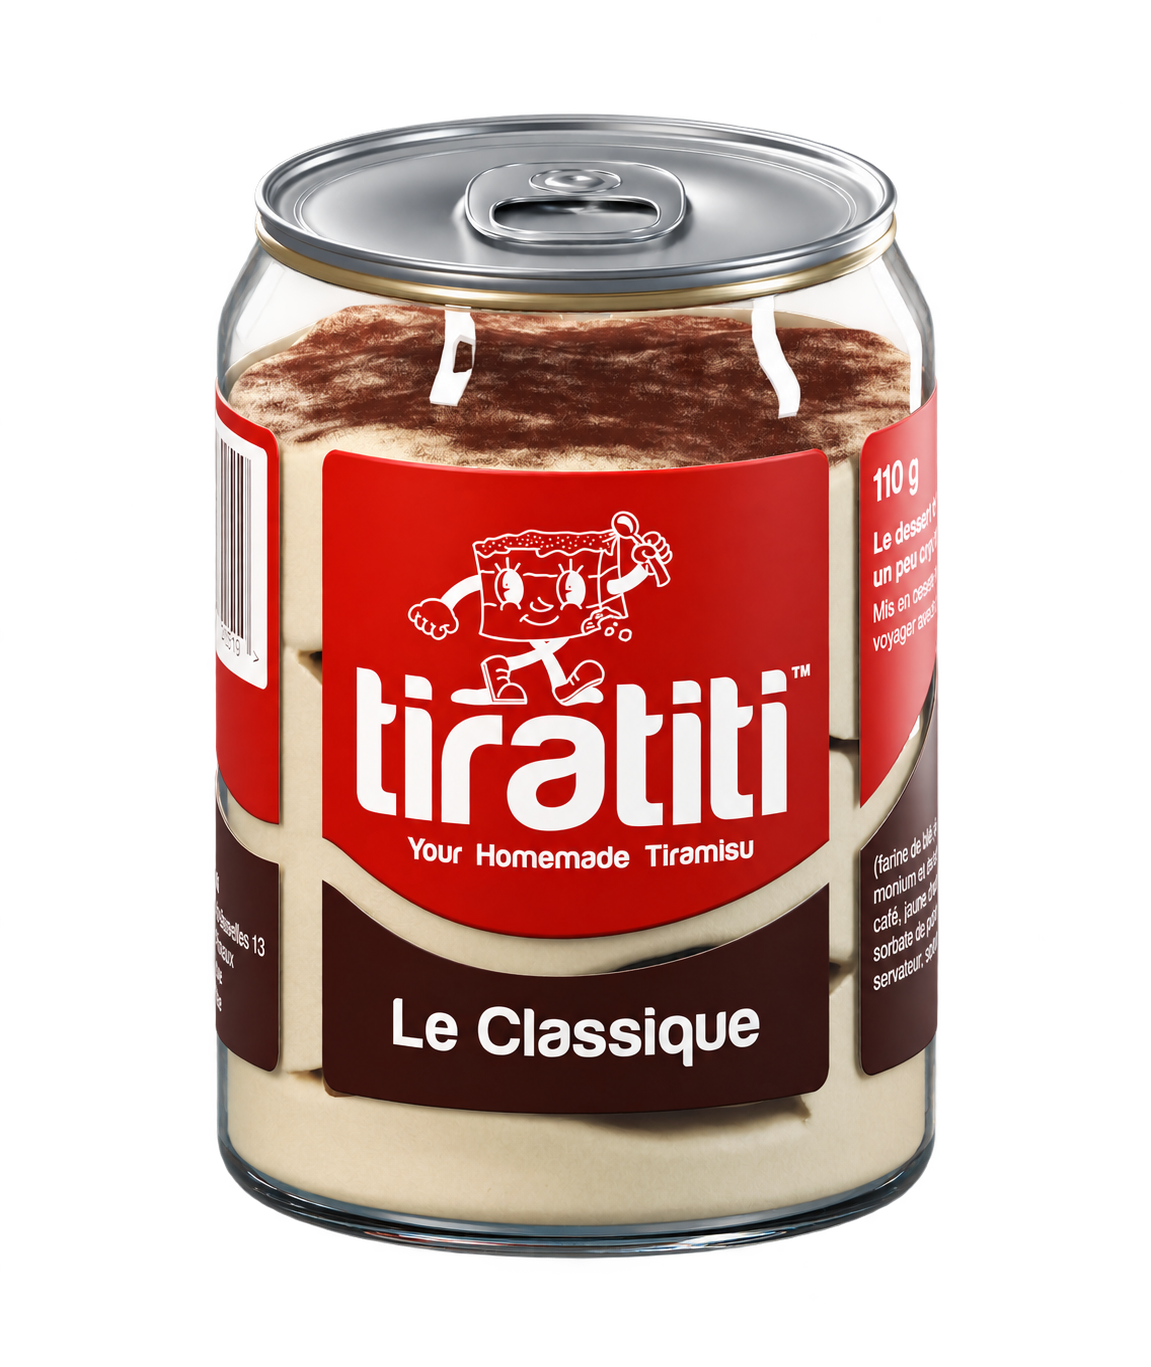
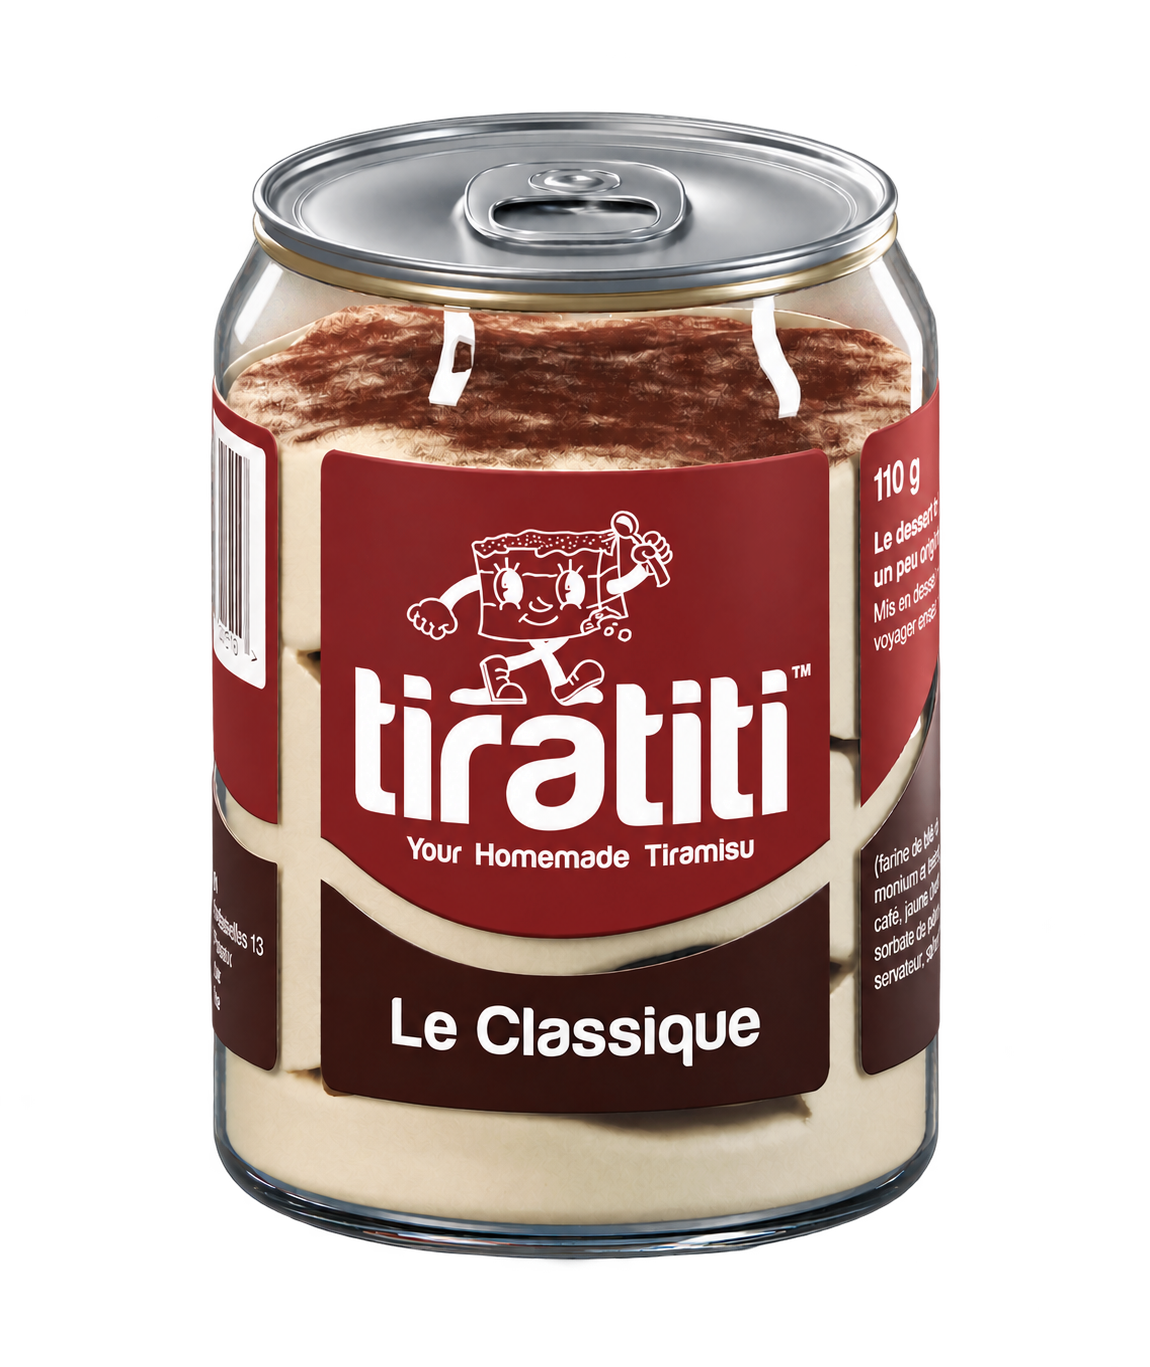
Harmonize can label red with the site background

diff --git a/index.html b/index.html
@@ -160,7 +160,7 @@
       <p>Les premiers points de vente Tiratiti seront annoncés ici. Encore un peu de patience&nbsp;: on prépare notre entrée au rayon frais.</p>
     </div>
 
-    <img class="canette" src="canette-classique.png" alt="Canette de tiramisu Tiratiti Le Classique" width="1151" height="1367" fetchpriority="high" decoding="async">
+    <img class="canette" src="canette-classique.png" alt="Canette de tiramisu Tiratiti Le Classique" width="1150" height="1367" fetchpriority="high" decoding="async">
   </main>
 </body>
 </html>
